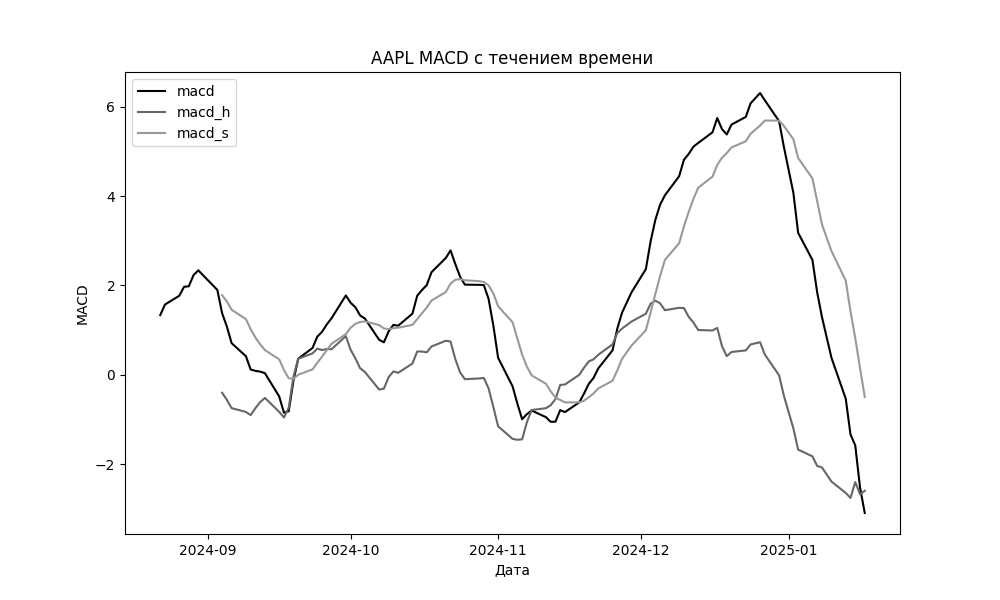
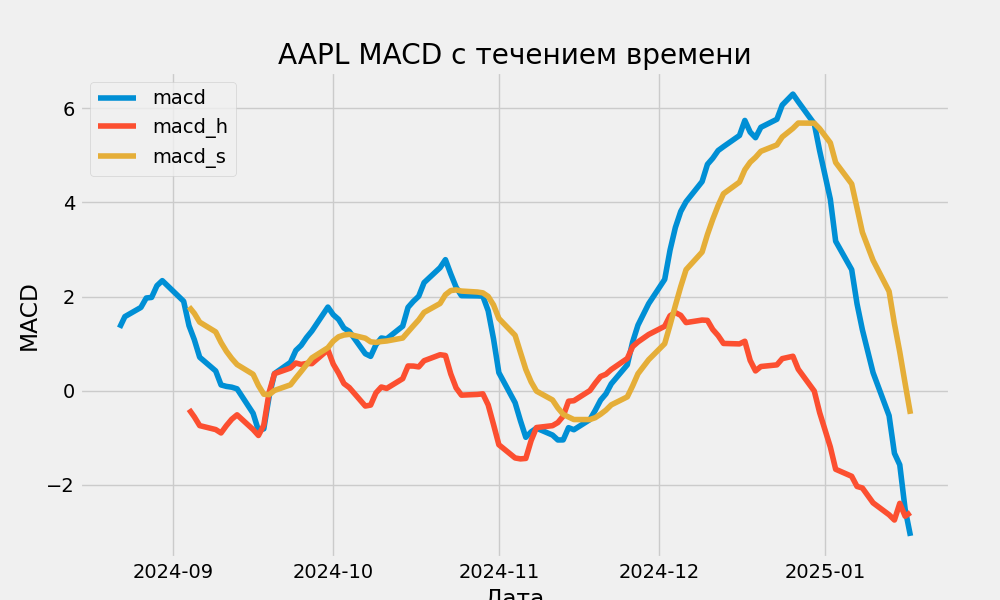
graphic style

diff --git a/main.py b/main.py
@@ -29,8 +29,13 @@ def main():
     # Calculate MACD
     dd.calculate_macd(stock_data)
 
-    print(f"Примеры стилей графиков: {matplotlib.style.available}")
-    style = input("Выберите стиль из списка: ")
+    # choice of style
+    choice = input('хотите поменять стиль графиков? (y, n):')
+    style = 'fast'
+    if choice == 'y':
+        print(f"Примеры стилей графиков: {matplotlib.style.available}")
+        style = input("Выберите стиль из списка: ")
+
     # Plot the data
     dplt.create_and_save_plot(stock_data, ticker, period, style)
 

diff --git a/data_plotting.py b/data_plotting.py
@@ -5,6 +5,7 @@ import pandas as pd
 
 def create_and_save_plot(data, ticker, period, style='default', filename=None):
     plt.figure(figsize=(10, 6))
+    # graphic style
     plt.style.use(style)
 
     if 'Date' not in data:
